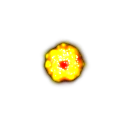
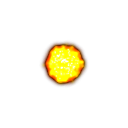
Health bars, longer explosion

Changed region(s): [[0.3125, 0.3125, 0.6875, 0.6875]]

diff --git a/The Real Deal/data/hud.py b/The Real Deal/data/hud.py
@@ -1,0 +1,51 @@
+import pygame
+import pygame.font
+
+
+class Statbar():
+    """A stat bar for use in the HUD."""
+
+    def __init__(self, settings, screen, color, pos, stat, statmax):
+        self.screen = screen
+        self.settings = settings
+        self.stat = stat
+        self.statmax = statmax
+        self.color = color
+        # Assumes that color is completely red, green, or blue.
+        self.dark_color = color - pygame.Color(127, 127, 127, 0)
+        self.rect = pygame.Rect(0, 0, 500, 4)
+        self.top_rect = pygame.Rect(0, 0, 500, 4)
+        (self.rect.x, self.rect.y) = pos
+        self.top_rect.center = self.rect.center
+
+    def update(self, stat):
+        """Change the top rect's length to match the given stat."""
+        self.stat = stat
+        if self.stat > self.statmax:
+            self.stat = self.statmax
+        self.top_rect.width = (self.stat / self.statmax) * 500
+
+    def draw(self):
+        """Draw the two bars."""
+        pygame.draw.rect(self.screen, self.dark_color, self.rect)
+        pygame.draw.rect(self.screen, self.color, self.top_rect)
+
+
+class HUD():
+    """The HUD."""
+
+    def __init__(self, settings, screen, stats):
+        self.screen = screen
+        self.settings = settings
+        self.stats = stats
+        self.healthbar = Statbar(settings, screen, settings.red, (10, 10),
+                                 stats.ship_health, settings.ship_health)
+        self.powerbar = Statbar(settings, screen, settings.green, (10, 20),
+                                stats.ship_level, settings.max_ship_level)
+
+    def update(self, stats):
+        """Update and draw the bars."""
+        self.healthbar.update(stats.ship_health)
+        self.healthbar.draw()
+        self.powerbar.update(stats.ship_level)
+        self.powerbar.draw()

diff --git a/The Real Deal/data/entities.py b/The Real Deal/data/entities.py
@@ -10,6 +10,7 @@ class Ship(Sprite):
         super().__init__()
         self.screen = screen
         self.settings = settings
+        self.stats = stats
         # Load the animation frames and get the rect of frame 1.
         self.index = 0
         self.animdir = 1
@@ -42,7 +43,7 @@ class Ship(Sprite):
     def reset_pos(self):
         """Reset the ship's position."""
         self.ready = False
-        self.respawn_countdown = 29
+        self.respawn_countdown = 44
         self.centery = self.screen_rect.centery
         # same as setting self.rect.right to self.screen_rect.left
         self.centerx = self.screen_rect.left - (self.rect.right - self.centerx)
@@ -54,6 +55,7 @@ class Ship(Sprite):
                 self.centerx += settings.ship_speed
             else:
                 self.ready = True
+                self.stats.ship_health = settings.ship_health
         self.animate()
         # The ship should be moving the same speed when moving diagonally.
         if (self.moving_up and self.moving_left or
@@ -161,7 +163,7 @@ class Bullet(Sprite):
         self.y_offset = y_offset
         self.speed = speed
         self.damage = damage
-        self.color = settings.bullet_color
+        self.color = settings.red
         # Create a bullet rect at (0, 0) and set its real position.
         self.rect = pygame.Rect(0, 0, width, height)
         # If told to, offset the bullet from the usual value.

diff --git a/The Real Deal/data/BulletHeck.py b/The Real Deal/data/BulletHeck.py
@@ -6,6 +6,7 @@ import game_functions as gf
 from entities import Ship
 from stats import Stats
 from preloader import Sounds, Images
+from hud import HUD
 
 
 def run_game():
@@ -13,11 +14,12 @@ def run_game():
     sounds = Sounds(settings)
     images = Images()
     pygame.init()
-    stats = Stats(settings)
     pygame.display.set_icon(images.icon)
     screen = pygame.display.set_mode((settings.screen_width,
                                       settings.screen_height))
     pygame.display.set_caption("Bullet Heck!")
+    stats = Stats(settings)
+    hud = HUD(settings, screen, stats)
     ship = Ship(settings, screen, stats, images)
     stars = Group()
     bullets = Group()
@@ -43,7 +45,7 @@ def run_game():
             gf.update_enemy_stuff(settings, screen, ship, enemies, sounds,
                                   stats, explosions, images, pickups)
             gf.update_screen(settings, screen, stars, ship, bullets, enemies,
-                             explosions, pickups)
+                             explosions, pickups, hud, stats)
             clock.tick(settings.fps_limit)
             if settings.show_fps:
                 print(clock.get_fps())

diff --git a/The Real Deal/data/game_functions.py b/The Real Deal/data/game_functions.py
@@ -272,14 +272,13 @@ def check_enemy_ship_collisions(settings, screen, enemies, ship, stats,
                 while stats.ship_level > 0:
                     stats.ship_level -= 1
                     spawn_pickup(ship, screen, images, pickups, "p", True)
-                stats.ship_health = settings.ship_health
                 sounds.boom_small.play()
 
 
 def update_screen(settings, screen, stars, ship, bullets, enemies, explosions,
-                  pickups):
+                  pickups, hud, stats):
     """Update and flip any images onscreen."""
-    screen.fill(settings.bg_color)
+    screen.fill(settings.black)
     # Stars under everything
     for star in stars.sprites():
         star.blitme()
@@ -292,4 +291,5 @@ def update_screen(settings, screen, stars, ship, bullets, enemies, explosions,
     for pickup in pickups.sprites():
         pickup.blitme()
     ship.blitme()
+    hud.update(stats)
     pygame.display.flip()

diff --git a/The Real Deal/data/settings.py b/The Real Deal/data/settings.py
@@ -1,4 +1,5 @@
 import pickle
+import pygame
 
 
 class Settings():
@@ -23,7 +24,10 @@ class Settings():
         self.screen_width = int(reslist[0])
         self.screen_height = int(reslist[2])
         # Colors
-        self.bg_color = (0, 0, 0)
+        self.black = pygame.Color(0, 0, 0, 255)
+        self.red = pygame.Color(255, 0, 0, 255)
+        self.green = pygame.Color(0, 255, 0, 255)
+        self.blue = pygame.Color(0, 0, 255, 255)
         # Performance
         self.star_limit = 100
         self.fps_limit = 60
@@ -32,9 +36,8 @@ class Settings():
         self.ship_health = 3
         self.diag_factor = ((2 ** 0.5) / 2)  # (root2)/2
         self.star_speed = 5
-        self.hitbox_color = (255, 0, 0)
+        self.max_ship_level = 3
         # Bullets
-        self.bullet_color = (255, 0, 0)
         self.bullet_limit = 100
         self.bullet_cooldown = 5
         # Enemies

diff --git a/The Real Deal/data/preloader.py b/The Real Deal/data/preloader.py
@@ -39,7 +39,7 @@ class Images():
         self.icon = pygame.image.load("assets/icon/icon_32.png")
         self.enemy1 = self.load_anim("enemy1")
         self.ship = self.load_anim("ship")
-        self.explosion = self.load_anim("explosion")
+        self.explosion = self.load_anim("explosion", 45)
         self.powerup = self.load_anim("powerup")
 
     def load_anim(self, dir, length=30):
